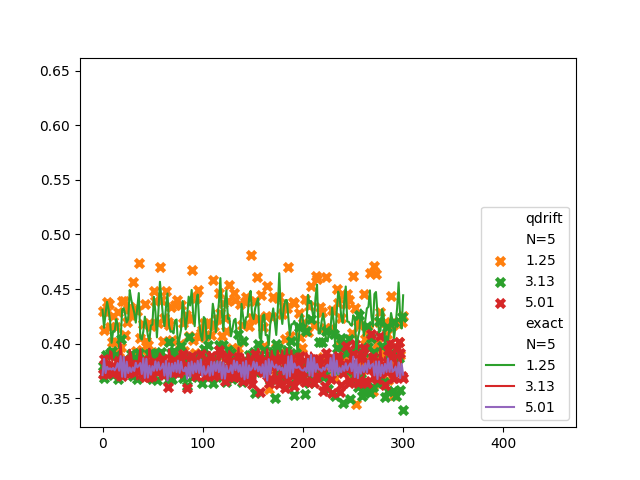
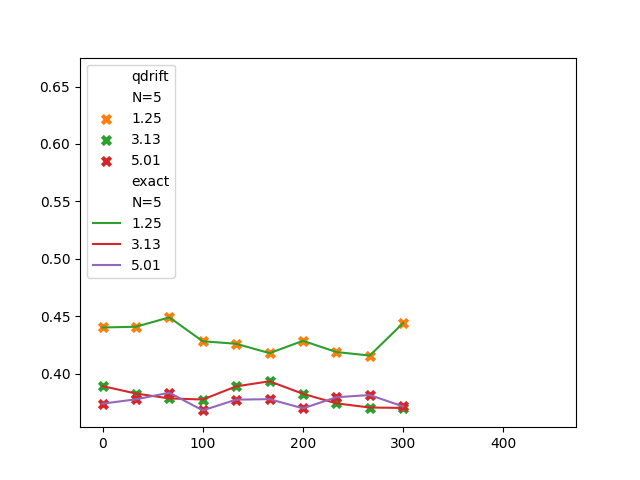
bug fix & Max size

diff --git a/ising/simulation/trotter/lie.py b/ising/simulation/trotter/lie.py
@@ -10,6 +10,7 @@ from qiskit.synthesis import LieTrotter
 
 from ising.hamiltonian import Hamiltonian, trotter_reps
 from ising.hamiltonian.hamiltonian import substitute_parameter
+from ising.utils import MAXSIZE
 
 
 class Lie(LieTrotter):
@@ -78,12 +79,14 @@ class LieCircuit:
             self.ham_subbed.sparse_repr, self.time / self.reps
         )
 
-    @lru_cache
+    @lru_cache(maxsize=MAXSIZE)
     def pauli_matrix(self, pauli: Pauli, time: float, reps: int) -> NDArray:
         circuit = self.pauli_mapping[pauli].assign_parameters(
             {self.time: time, self.reps: reps}
         )
-        return Operator.from_circuit(circuit).reverse_qargs().data
+        return np.array(Operator.from_circuit(circuit).reverse_qargs().data).astype(
+            np.complex128
+        )
 
     def matrix(self, time: float) -> NDArray:
         if self.ham_subbed is None:
@@ -92,7 +95,7 @@ class LieCircuit:
             raise ValueError("Para circuit has not been constructed.")
         reps = trotter_reps(self.ham_subbed.sparse_repr, time, self.error)
 
-        final_op = np.identity(2**self.num_qubits)
+        final_op = np.identity(2**self.num_qubits).astype(np.complex128)
         print(f"{time}:{reps}")
         for op in self.ham_subbed.sparse_repr:
             p = self.pauli_matrix(Pauli(op.paulis), time, reps)
@@ -100,31 +103,14 @@ class LieCircuit:
 
         return np.linalg.matrix_power(final_op, reps)
 
-    # def get_observations(
-    #     self, rho_init: NDArray, observable: NDArray, times: list[float]
-    # ):
-    #     results = []
-    #     for time in times:
-    #         unitary = self.matrix(time)
-    #         rho_final = unitary @ rho_init @ unitary.conj().T
-    #         result = np.trace(np.abs(observable @ rho_final))
-    #         results.append(result)
-
-    #     return results
-
     def get_observations(
         self, rho_init: NDArray, observable: NDArray, times: list[float]
     ):
         results = []
-        cur_time = 0
-        cur_rho = rho_init
         for time in times:
-            print(f"Running for {time}")
-            unitary = self.matrix(time - cur_time)
-            rho_final = unitary @ cur_rho @ unitary.conj().T
+            unitary = self.matrix(time)
+            rho_final = unitary @ rho_init @ unitary.conj().T
             result = np.trace(np.abs(observable @ rho_final))
-            cur_time = time
-            cur_rho = rho_final
             results.append(result)
 
         return results

diff --git a/ising/simulation/trotter/qdrift.py b/ising/simulation/trotter/qdrift.py
@@ -6,9 +6,11 @@ from numpy.typing import NDArray
 from qiskit.quantum_info import Pauli
 from qiskit.circuit import Parameter
 from qiskit.quantum_info import Operator
+
 from ising.hamiltonian import Hamiltonian, qdrift_count
 from ising.hamiltonian.hamiltonian import substitute_parameter
 from ising.simulation.trotter import Lie
+from ising.utils import MAXSIZE
 
 
 class QDriftCircuit:
@@ -63,12 +65,12 @@ class QDriftCircuit:
         self.sign_map = sign_map
         self.pauli_mapping = self.synthesizer.parameterized_map(self.paulis, self.time)
 
-    @lru_cache
+    @lru_cache(maxsize=MAXSIZE)
     def pauli_matrix(self, pauli: Pauli, time: float) -> NDArray:
         circuit = self.pauli_mapping[pauli].assign_parameters(
             {self.time: self.sign_map[pauli] * time}
         )
-        return Operator.from_circuit(circuit).reverse_qargs().data
+        return np.array(Operator.from_circuit(circuit).reverse_qargs().data)
 
     def matrix(self, time: float) -> NDArray:
         if self.ham_subbed is None:
@@ -91,21 +93,14 @@ class QDriftCircuit:
         return final_op
 
     def get_observations(
-        self, rho_init: NDArray, observable: NDArray, times: list[float], rep: int = 1
+        self, rho_init: NDArray, observable: NDArray, times: list[float]
     ):
         results = []
-        cur_time = 0
-        cur_rho = rho_init
         for time in times:
             print(f"Running for {time}")
-            temp_results = []
-            for _ in range(rep):
-                unitary = self.matrix(time - cur_time)
-                rho_final = unitary @ cur_rho @ unitary.conj().T
-                result = np.trace(np.abs(observable @ rho_final))
-                cur_time = time
-                cur_rho = rho_final
-                temp_results.append(result)
-            results.append(np.mean(temp_results))
+            unitary = self.matrix(time)
+            rho_final = unitary @ rho_init @ unitary.conj().T
+            result = np.trace(np.abs(observable @ rho_final))
+            results.append(result)
 
         return results

diff --git a/ising/simulation/trotter/sparse_lie.py b/ising/simulation/trotter/sparse_lie.py
@@ -1,5 +1,6 @@
 from typing import Optional, Union
 from functools import lru_cache
+from scipy import sparse
 import numpy as np
 from numpy.typing import NDArray
 
@@ -7,8 +8,7 @@ from qiskit.quantum_info import Pauli
 from qiskit.circuit import Parameter
 
 from ising.hamiltonian import Hamiltonian, trotter_reps
-
-from scipy import sparse
+from ising.utils import MAXSIZE
 from lie import LieCircuit
 
 
@@ -16,7 +16,7 @@ class SparseLie(LieCircuit):
     def __init__(self, ham: Hamiltonian, h: Parameter, error: float):
         super().__init__(ham, h, error)
 
-    @lru_cache
+    @lru_cache(maxsize=MAXSIZE)
     def pauli_matrix(self, pauli: Pauli, time: float, reps: int) -> sparse.bsr_array:
         return sparse.bsr_array(super().pauli_matrix(pauli, time, reps))
 

diff --git a/ising/simulation/trotter/run_trotter.py b/ising/simulation/trotter/run_trotter.py
@@ -23,12 +23,12 @@ def run_trotter(paras):
 
     if method == "lie":
         circuit_synthesis = LieCircuit
-    if method == "qdrift":
+    elif method == "qdrift":
         circuit_synthesis = QDriftCircuit
-    if method == "sparse_lie":
+    elif method == "sparse_lie":
         circuit_synthesis = SparseLie
     else:
-        circuit_synthesis = LieCircuit
+        raise ValueError("Incorrect method:", method)
 
     for num_qubit in range(paras["start_qubit"], paras["end_qubit"] + 1):
         observable = overall_magnetization(num_qubit)
